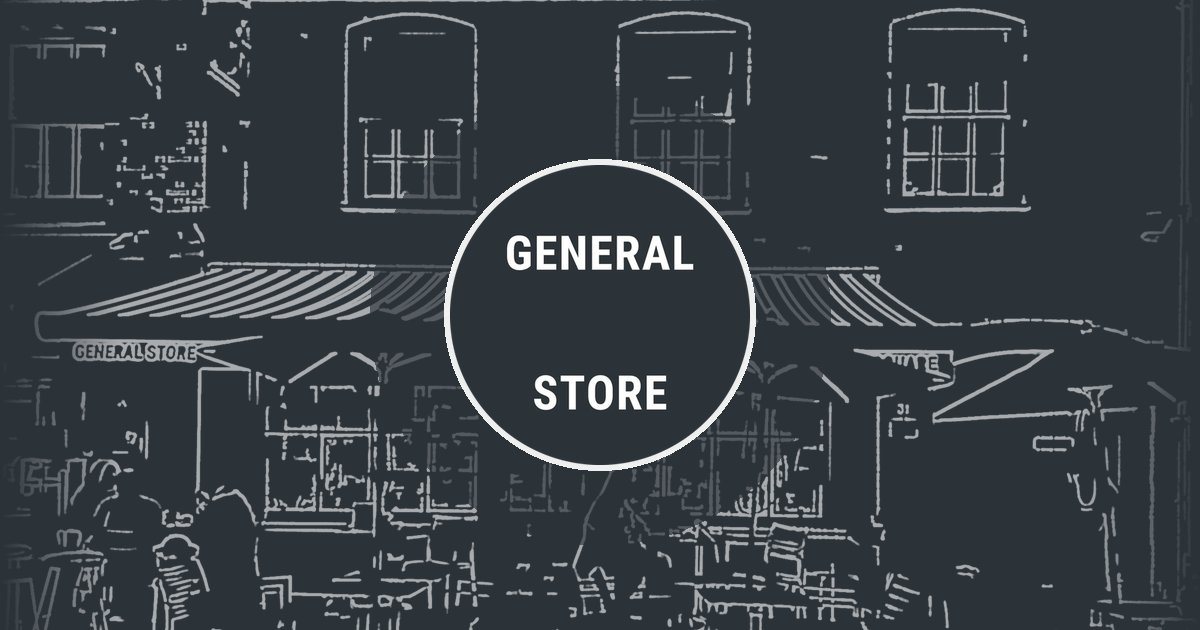
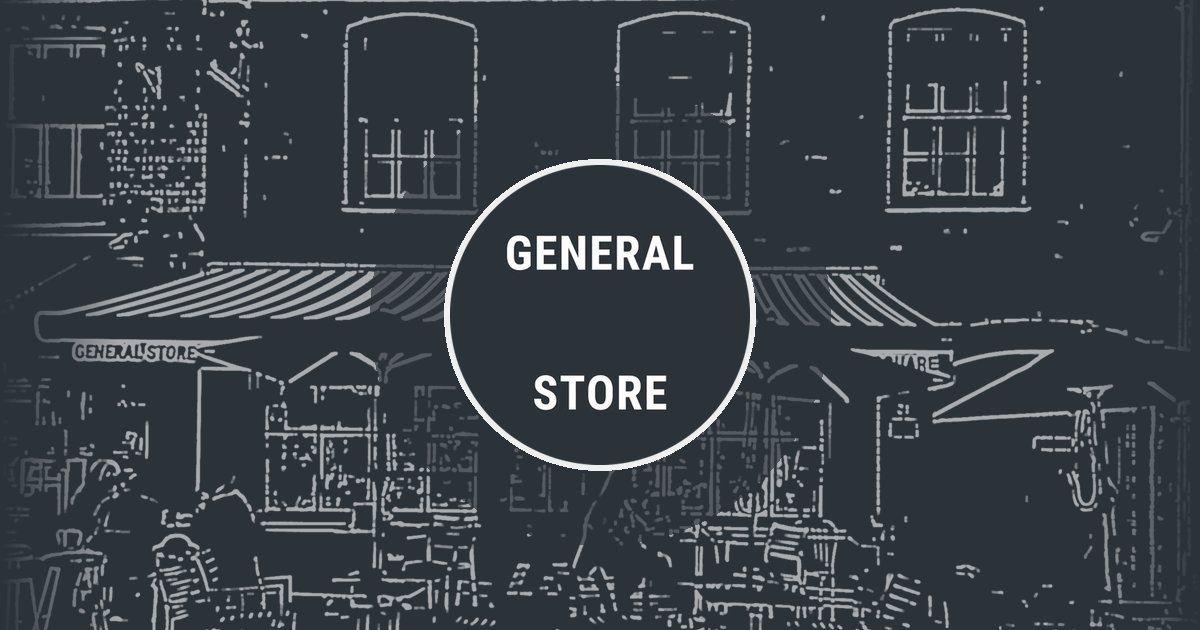
Bolder, clearer shopfront trace
- Re-trace Front.tiff at 2x resolution with the original settings and
  framing, drop the tiniest specks, and make lines bolder and brighter
- Keep the original deep charcoal shading and positioning
- Rebuild the link-preview image from the new trace

diff --git a/styles.css b/styles.css
@@ -18,10 +18,13 @@
   --head-track: 0.04em;
   --head-weight: 700;
 
+  /* traced line drawing of the shopfront (from Front.tiff) */
   --art-img: url("assets/front-drawing.png");
 }
 @supports (background-image: image-set(url("x.webp") type("image/webp"))) {
   :root { --art-img: image-set(url("assets/front-drawing.webp") type("image/webp"), url("assets/front-drawing.png") type("image/png")); }
+}
+}
 }
 
 /* ---------- Base ---------- */
@@ -59,7 +62,7 @@ h2 { font-size: clamp(2rem, 4vw, 2.75rem); }
   --art-y-header: top;
   --art-y-hero: top;
   /* same tint on header + hero so they join seamlessly */
-  --art-shade: linear-gradient(90deg, rgba(43,50,56,.65) 0%, rgba(43,50,56,.25) 22%, rgba(43,50,56,.25) 78%, rgba(43,50,56,.65) 100%);
+  --art-shade: linear-gradient(90deg, rgba(43,50,56,.8) 0%, rgba(43,50,56,.5) 22%, rgba(43,50,56,.5) 78%, rgba(43,50,56,.8) 100%);
 }
 .site-header {
   color: #fff; position: sticky; top: 0; z-index: 20;
@@ -132,7 +135,7 @@ h2 { font-size: clamp(2rem, 4vw, 2.75rem); }
   margin: 0 0 8px;
 }
 .hero .eyebrow { color: #fff; opacity: .9; }
-.hero h1 { font-size: clamp(2.2rem, 5.5vw, 3.6rem); text-shadow: 0 2px 12px rgba(0,0,0,.35); }
+.hero h1 { font-size: clamp(2.2rem, 5.5vw, 3.6rem); text-shadow: 0 2px 4px rgba(43,50,56,.9), 0 0 18px rgba(43,50,56,.85); }
 .lede { font-size: 1.2rem; margin: 0 auto 28px; max-width: 34em; }
 .hero .lede { color: rgba(255,255,255,.9); }
 .hero .eyebrow, .hero .lede { text-shadow: 0 1px 3px rgba(43,50,56,.9), 0 0 14px rgba(43,50,56,.8); }
